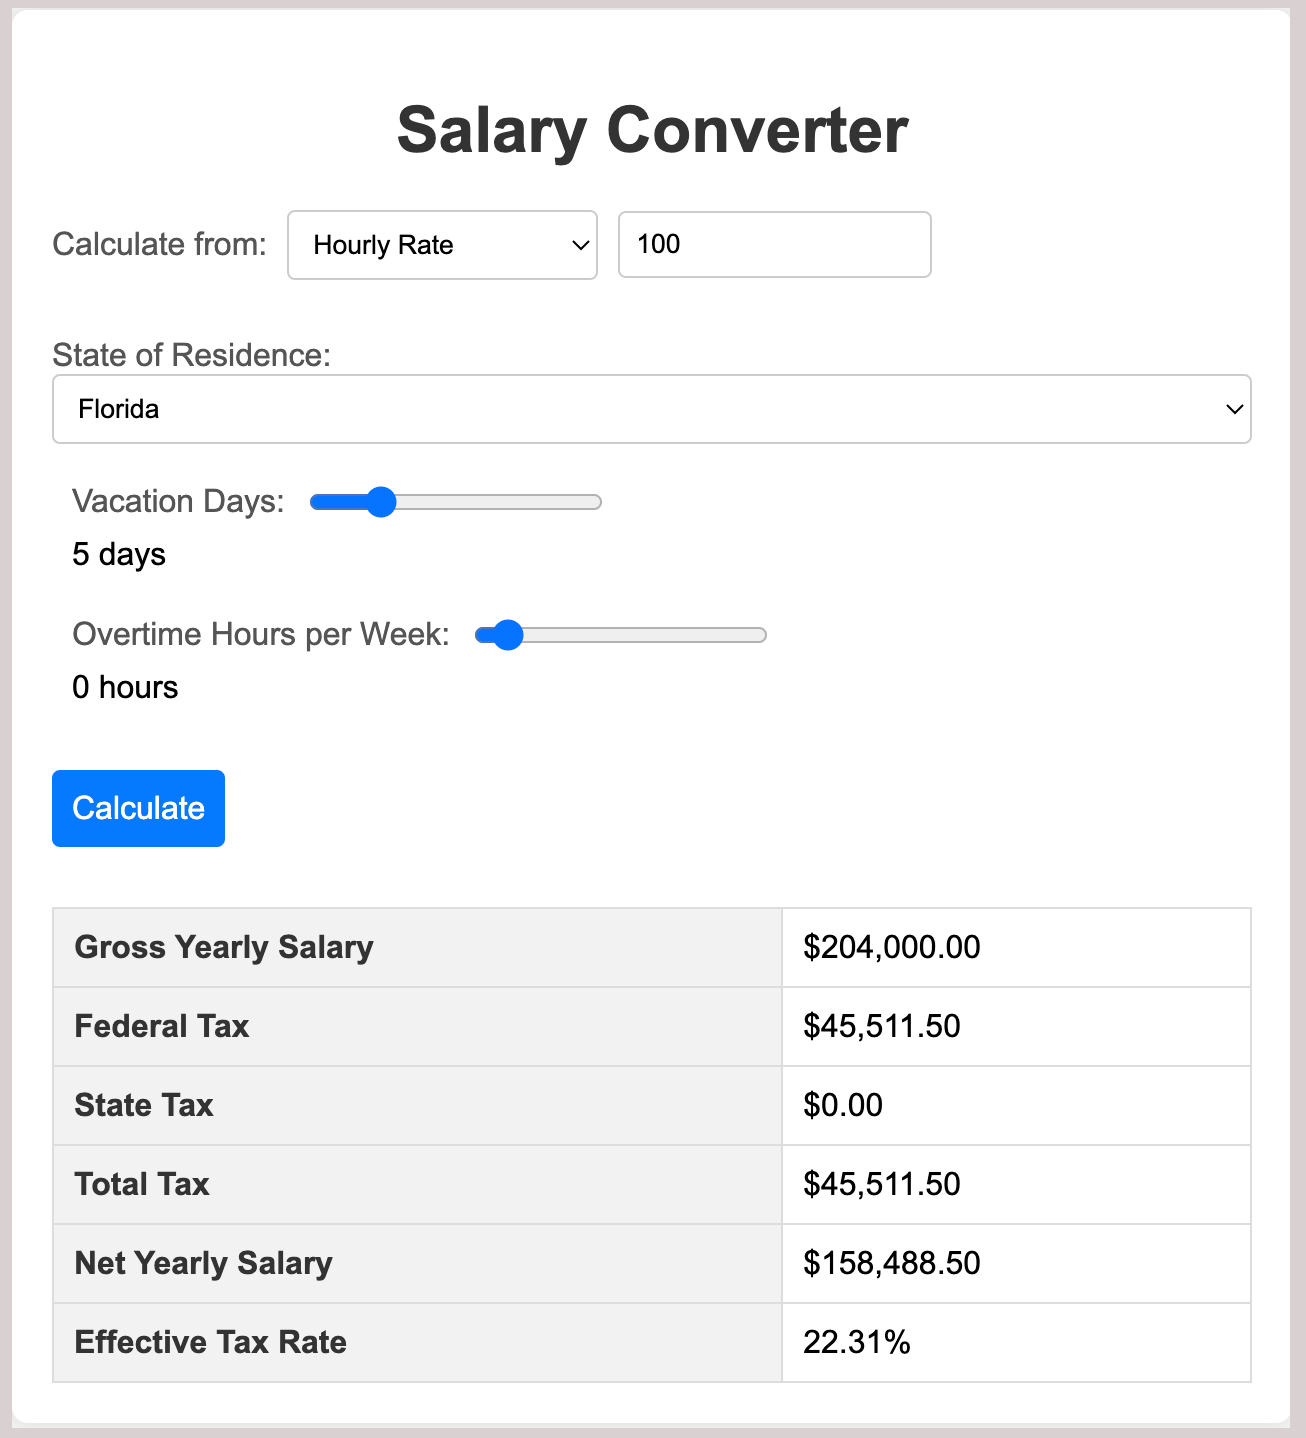
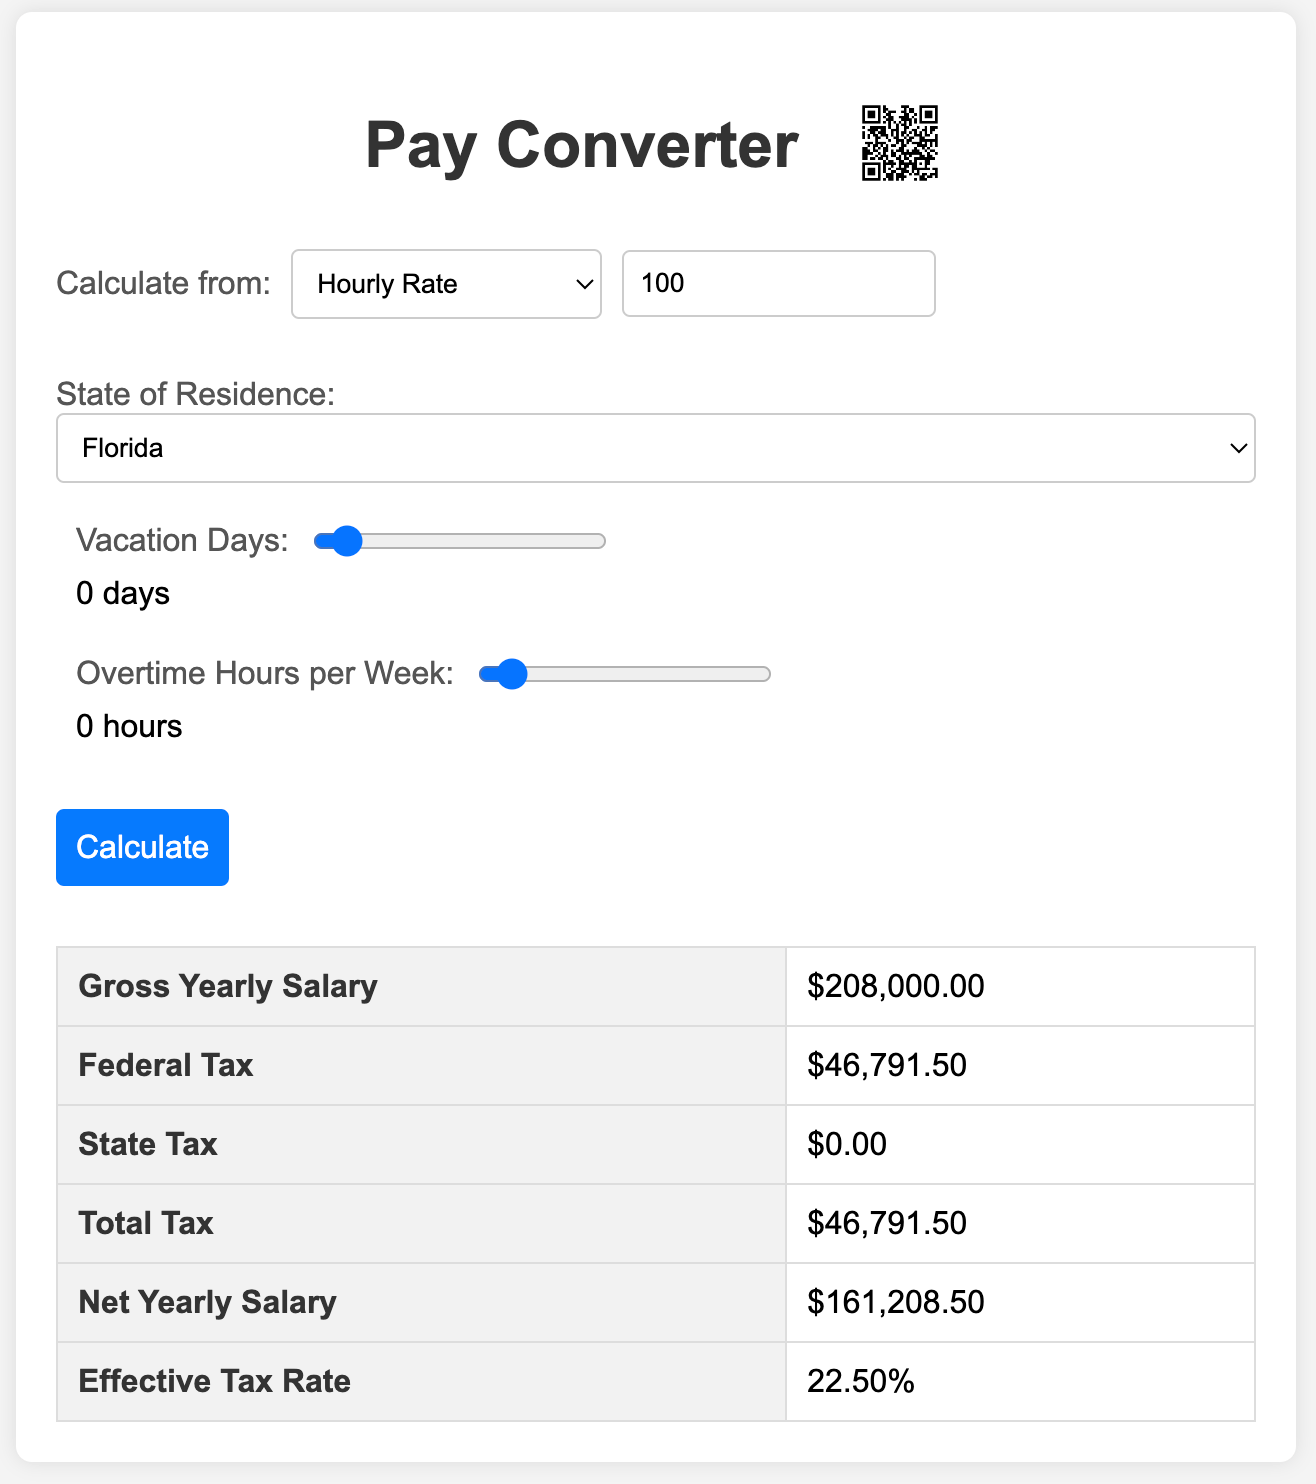
updated

diff --git a/apps/paycalc/index.html b/apps/paycalc/index.html
@@ -10,7 +10,9 @@
 
 <body>
   <div class="container">
-    <h1 onclick="location.reload()">Pay Converter</h1>
+    <h1 onclick="location.reload()">Pay Converter <span style="vertical-align:middle;margin-left:18px"><img width="48"
+          src="paycalc.png" /></span>
+    </h1>
     <form id="salary-form">
       <div class="form-row">
         <label for="mode-toggle">Calculate from:</label>
